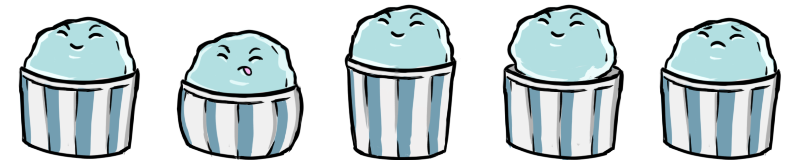
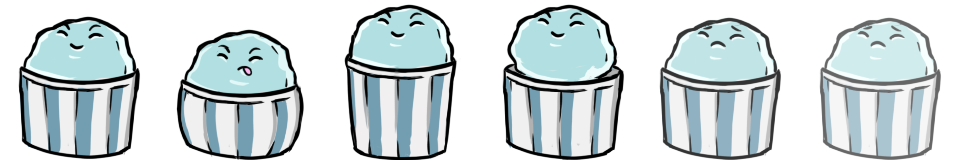
Add Pride. Add special movement

diff --git a/js/enemy.js b/js/enemy.js
@@ -14,8 +14,14 @@ var Enemy = function (game, key) {
     this.tracking = false;
     this.scaleSpeed = 0;
 
-    this.animations.add('idle', [0,1], 4, true);
-    this.animations.add('hurt', [2,3], 16, true);
+    if (key == "pride") {
+        this.animations.add('idle', [0,1,2,3], 6, true);
+        this.animations.add('hurt', [4,5], 16, true);
+    }
+    else {
+        this.animations.add('idle', [0,1], 4, true);
+        this.animations.add('hurt', [2,3], 16, true);
+    }
 
     this.animations.play('idle');
 
@@ -34,10 +40,19 @@ Enemy.prototype.spawn = function (x, y, angle, speed) {
     this.reset(x, y);
     this.scale.set(0.5);
 
-    this.game.physics.arcade.velocityFromAngle(angle, speed, this.body.velocity);
-
     this.angle = angle;
     this.speed = speed;
+
+    if (this.body.sprite.key == "gluttony") {
+        this.dx = 2;
+        this.dy = 1;
+        //this.game.physics.arcade.velocityFromAngle(pointAngle(0,0,2,1), speed, this.body.velocity);
+    }
+    else {
+        this.game.physics.arcade.velocityFromAngle(angle, speed, this.body.velocity);
+    }
+
+    PhaserGame.prototype.particleBurst(this);
 
 };
 
@@ -46,15 +61,27 @@ Enemy.prototype.recover = function () {
     this.animations.play('idle');
 };
 
-Enemy.prototype.update = function () {
-    //this.rotation += 0.03;
-};
-
 Enemy.prototype.playerUpdate = function (player) {
 
     var angle = pointAngle(this.x, this.y, player.x, player.y);
 
-    this.game.physics.arcade.velocityFromAngle(angle, this.speed, this.body.velocity);
+    if (this.body.sprite.key == "gluttony") {
+        this.body.x += this.dx;
+        this.body.y += this.dy;
+        if (this.body.x > game.width - this.body.width * 1.2 && this.dx > 0)
+            this.dx *= -1;
+        if (this.body.x < this.body.width * 0.5 && this.dx < 0)
+            this.dx *= -1;
+        if (this.body.y > game.height - this.body.height * 1.8 && this.dy > 0)
+            this.dy *= -1;
+        if (this.body.y < this.body.height * 0.1 && this.dy < 0)
+            this.dy *= -1;
+
+        this.rotation += this.dx / 40;
+    }
+    else {
+        this.game.physics.arcade.velocityFromAngle(angle, this.speed, this.body.velocity);
+    }
 
 };
 

diff --git a/js/enemyHandler.js b/js/enemyHandler.js
@@ -15,6 +15,7 @@ EnemyHandler.IceCream = function (game) {
     // Max limit of 64 enemies
     for (var i = 0; i < 16; i++)
     {
+        this.add(new Enemy(game, 'pride'), true);
         this.add(new Enemy(game, 'gluttony'), true);
         this.add(new Enemy(game, 'wrath'), true);
         this.add(new Enemy(game, 'greed'), true);
@@ -51,13 +52,6 @@ EnemyHandler.IceCream.prototype.playerUpdate = function (player, game, bullets) 
     game.physics.arcade.collide(bullets, this.children, bulletsCollide);
 
     return this.shake_required;
-};
-
-EnemyHandler.IceCream.prototype.damage = function (game) {
-    for (var i = 0; i < this.children.length; i++) {
-        if (this.children[i].exists)
-            this.children[i].damage(game);
-    }
 };
 
 EnemyHandler.IceCream.prototype.playerCollide = function (player, enemy) {

diff --git a/js/main.js b/js/main.js
@@ -52,6 +52,7 @@ PhaserGame.prototype = {
         this.load.spritesheet('wrath', 'img/wrath.png', 200, 200);
         this.load.spritesheet('lust', 'img/lust.png', 160, 200);
         this.load.spritesheet('sloth', 'img/sloth.png', 195, 125);
+        this.load.spritesheet('pride', 'img/pride.png', 160, 160);
 
 
         // Particles
@@ -177,7 +178,6 @@ PhaserGame.prototype = {
     },
 
     testCallback: function() {
-        console.log("Sandbox/Debug callback was triggered");
         this.hideHealth();
     },
 
